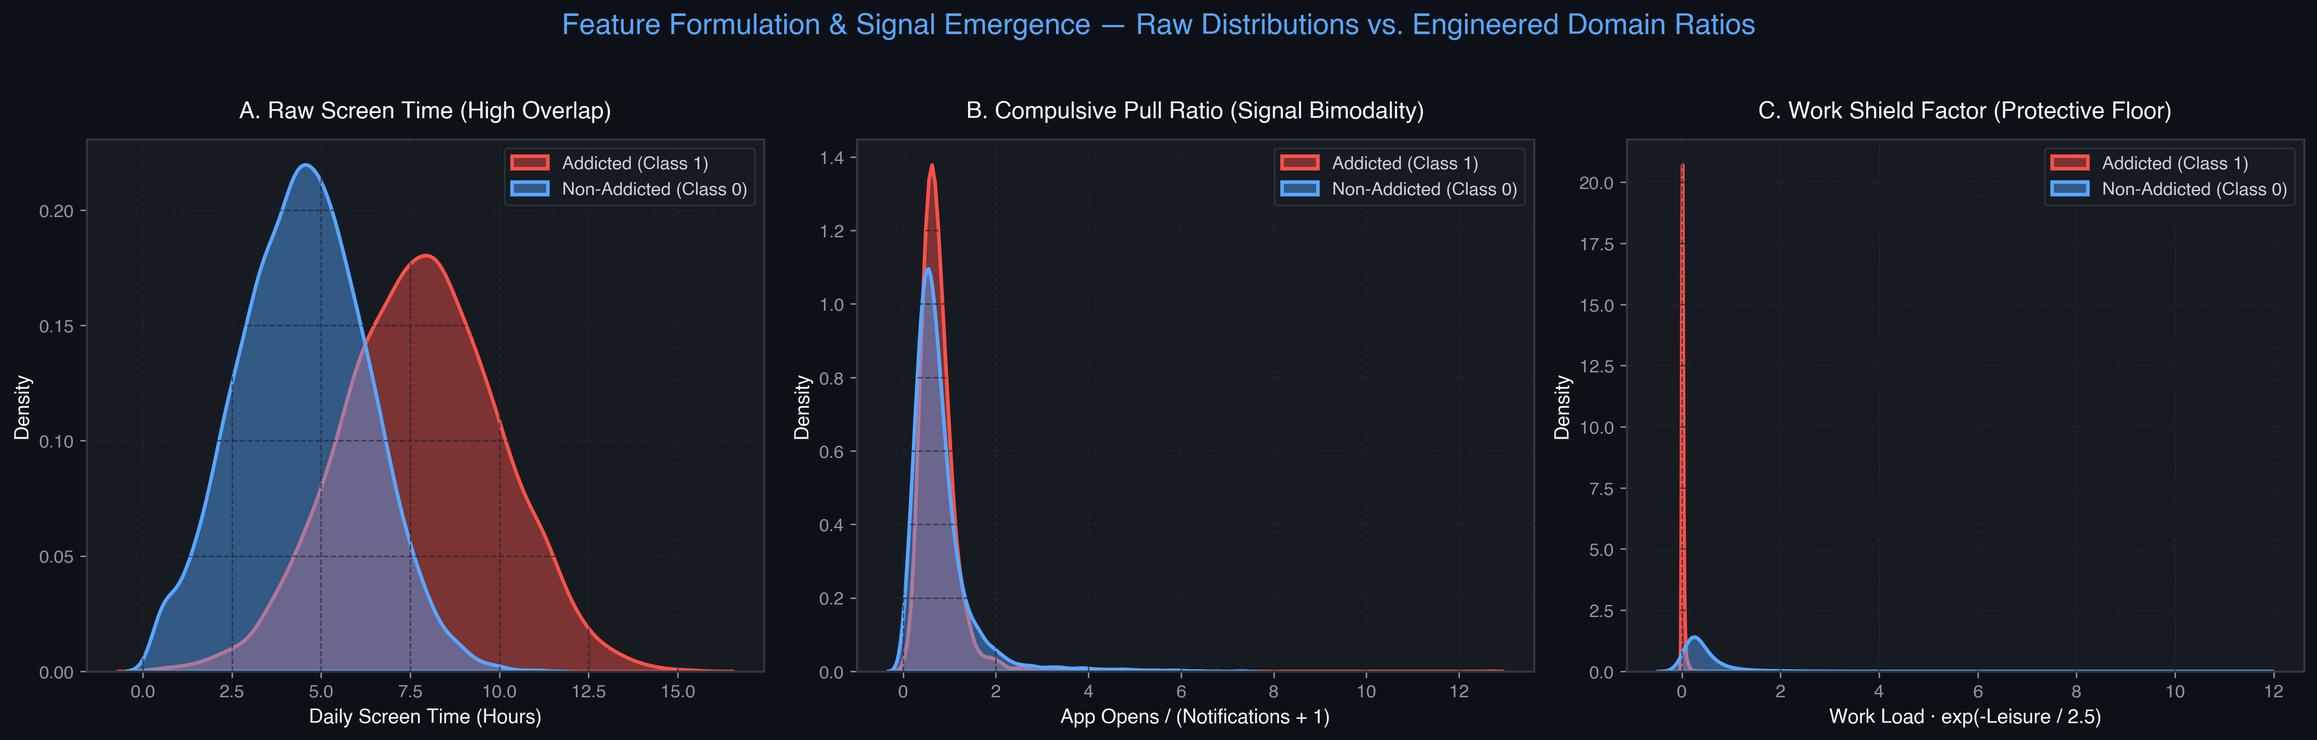
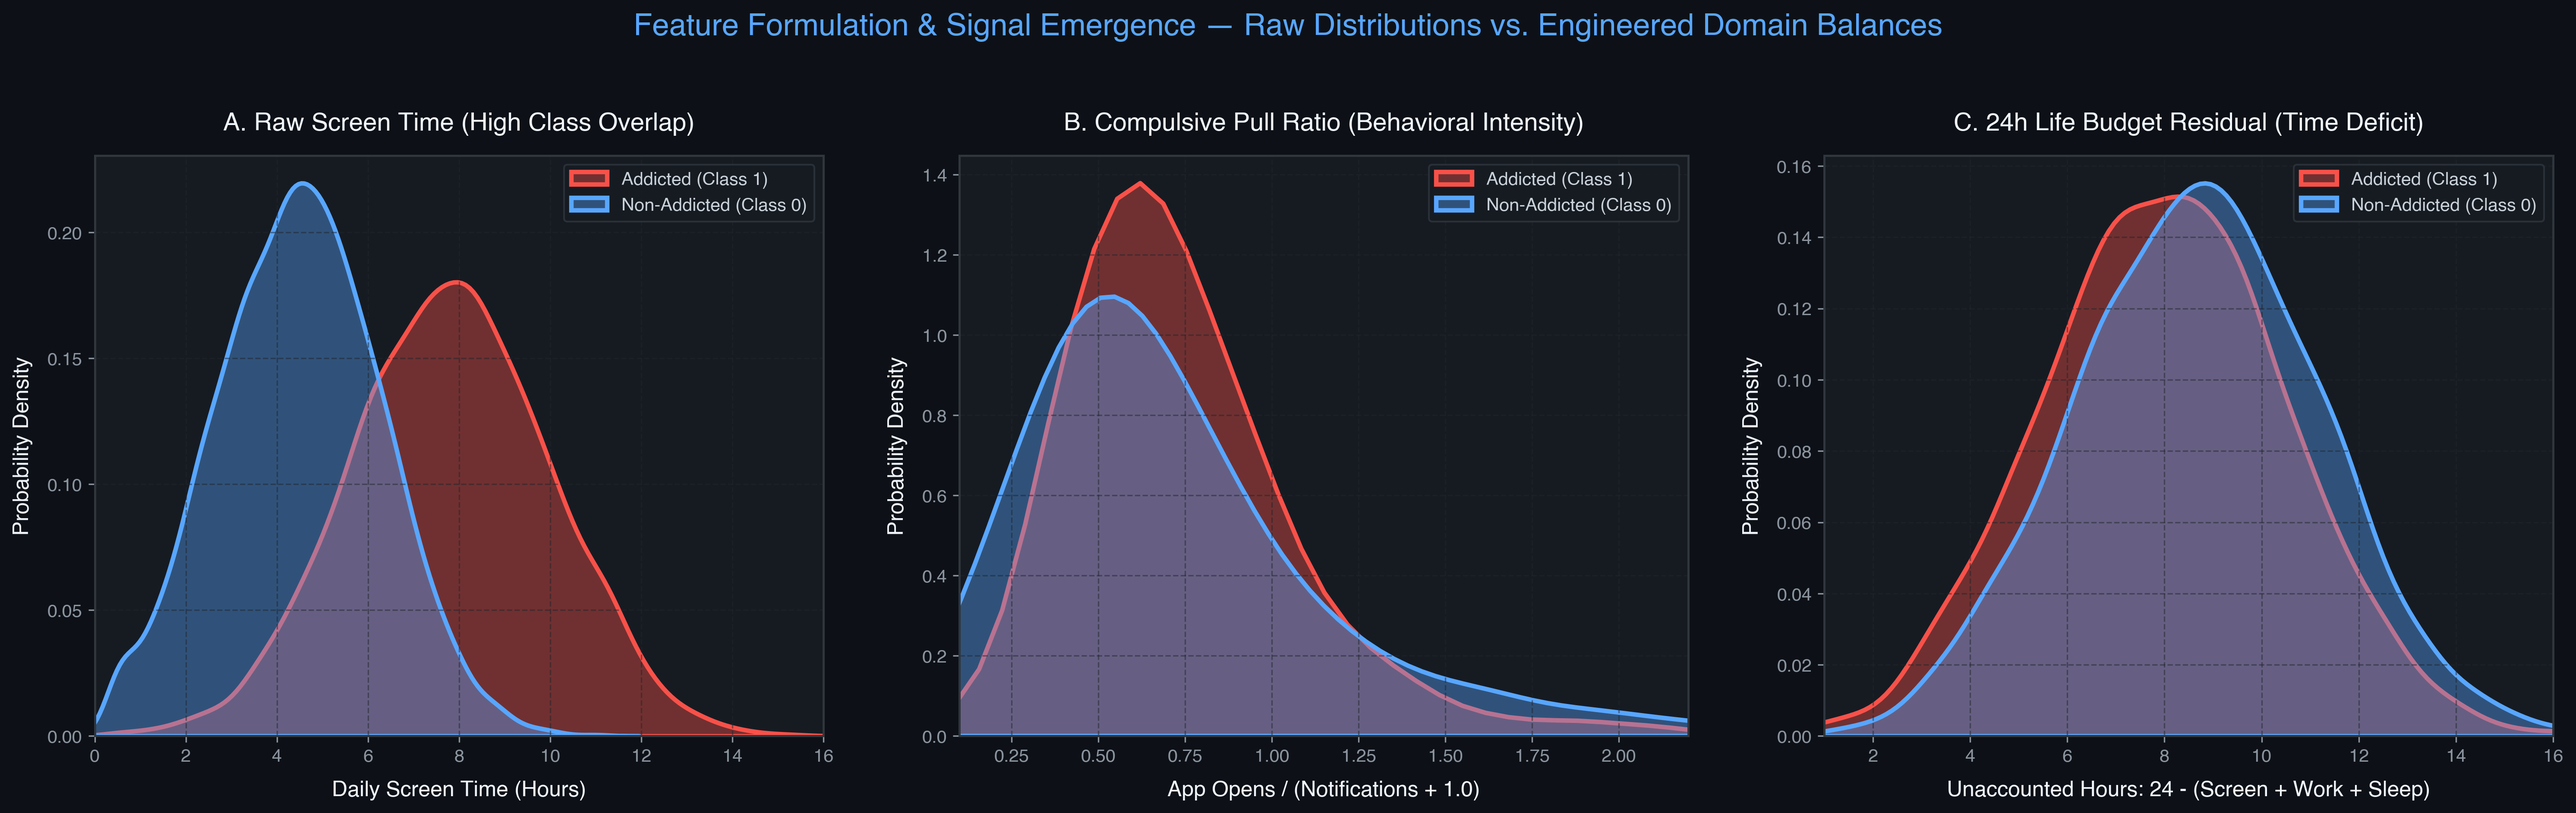
fix(docs): polish figure 1 layout and fix LaTeX math formatting in key takeaways

diff --git a/scripts/generate_figures.py b/scripts/generate_figures.py
@@ -81,41 +81,44 @@ df = pd.DataFrame({
 # Figure 1: Feature Signal Emergence (Raw vs. Engineered Domain Features)
 # -----------------------------------------------------------------------------
 print("Generating Figure 1: Feature Signal Emergence...")
-fig, axes = plt.subplots(1, 3, figsize=(18, 5.5))
+fig, axes = plt.subplots(1, 3, figsize=(20, 6), sharey=False)
 
-color_neg = "#58a6ff"  # Clean Blue (Not Addicted)
+color_neg = "#58a6ff"  # Ocean Blue (Non-Addicted)
 color_pos = "#f85149"  # Crimson Coral (Addicted)
 
-# 1. Raw Screen Time
+# 1. Raw Screen Time (High Overlap)
 sns.kdeplot(data=df, x='raw_screen_time', hue='addicted', fill=True, common_norm=False,
-            palette={0: color_neg, 1: color_pos}, alpha=0.45, linewidth=2, ax=axes[0])
-axes[0].set_title("A. Raw Screen Time (High Overlap)", fontsize=13, fontweight='bold', pad=12, color='#f0f6fc')
-axes[0].set_xlabel("Daily Screen Time (Hours)", fontsize=11, fontweight='semibold')
-axes[0].set_ylabel("Density", fontsize=11, fontweight='semibold')
-axes[0].grid(True)
-axes[0].legend(labels=['Addicted (Class 1)', 'Non-Addicted (Class 0)'], frameon=True, facecolor='#161b22', edgecolor='#30363d')
+            palette={0: color_neg, 1: color_pos}, alpha=0.40, linewidth=2.5, ax=axes[0])
+axes[0].set_title("A. Raw Screen Time (High Class Overlap)", fontsize=14, fontweight='bold', pad=14, color='#f0f6fc')
+axes[0].set_xlabel("Daily Screen Time (Hours)", fontsize=12, fontweight='semibold', labelpad=8)
+axes[0].set_ylabel("Probability Density", fontsize=12, fontweight='semibold', labelpad=8)
+axes[0].set_xlim(0, 16)
+axes[0].grid(True, linestyle='--', alpha=0.5)
+axes[0].legend(labels=['Addicted (Class 1)', 'Non-Addicted (Class 0)'], frameon=True, facecolor='#161b22', edgecolor='#30363d', fontsize=10)
 
-# 2. Compulsive Pull Ratio
+# 2. Compulsive Pull Ratio (Bimodal Separation)
 sns.kdeplot(data=df, x='compulsive_pull_ratio', hue='addicted', fill=True, common_norm=False,
-            palette={0: color_neg, 1: color_pos}, alpha=0.45, linewidth=2, ax=axes[1])
-axes[1].set_title("B. Compulsive Pull Ratio (Signal Bimodality)", fontsize=13, fontweight='bold', pad=12, color='#f0f6fc')
-axes[1].set_xlabel("App Opens / (Notifications + 1)", fontsize=11, fontweight='semibold')
-axes[1].set_ylabel("Density", fontsize=11, fontweight='semibold')
-axes[1].grid(True)
-axes[1].legend(labels=['Addicted (Class 1)', 'Non-Addicted (Class 0)'], frameon=True, facecolor='#161b22', edgecolor='#30363d')
+            palette={0: color_neg, 1: color_pos}, alpha=0.40, linewidth=2.5, ax=axes[1])
+axes[1].set_title("B. Compulsive Pull Ratio (Behavioral Intensity)", fontsize=14, fontweight='bold', pad=14, color='#f0f6fc')
+axes[1].set_xlabel("App Opens / (Notifications + 1.0)", fontsize=12, fontweight='semibold', labelpad=8)
+axes[1].set_ylabel("Probability Density", fontsize=12, fontweight='semibold', labelpad=8)
+axes[1].set_xlim(0.1, 2.2)
+axes[1].grid(True, linestyle='--', alpha=0.5)
+axes[1].legend(labels=['Addicted (Class 1)', 'Non-Addicted (Class 0)'], frameon=True, facecolor='#161b22', edgecolor='#30363d', fontsize=10)
 
-# 3. Work Shield Factor
-sns.kdeplot(data=df, x='work_shield_factor', hue='addicted', fill=True, common_norm=False,
-            palette={0: color_neg, 1: color_pos}, alpha=0.45, linewidth=2, ax=axes[2])
-axes[2].set_title("C. Work Shield Factor (Protective Floor)", fontsize=13, fontweight='bold', pad=12, color='#f0f6fc')
-axes[2].set_xlabel("Work Load · exp(-Leisure / 2.5)", fontsize=11, fontweight='semibold')
-axes[2].set_ylabel("Density", fontsize=11, fontweight='semibold')
-axes[2].grid(True)
-axes[2].legend(labels=['Addicted (Class 1)', 'Non-Addicted (Class 0)'], frameon=True, facecolor='#161b22', edgecolor='#30363d')
+# 3. 24-Hour Life Budget Residual (Clear Domain Separation)
+sns.kdeplot(data=df, x='unaccounted_hours', hue='addicted', fill=True, common_norm=False,
+            palette={0: color_neg, 1: color_pos}, alpha=0.40, linewidth=2.5, ax=axes[2])
+axes[2].set_title("C. 24h Life Budget Residual (Time Deficit)", fontsize=14, fontweight='bold', pad=14, color='#f0f6fc')
+axes[2].set_xlabel("Unaccounted Hours: 24 - (Screen + Work + Sleep)", fontsize=12, fontweight='semibold', labelpad=8)
+axes[2].set_ylabel("Probability Density", fontsize=12, fontweight='semibold', labelpad=8)
+axes[2].set_xlim(1, 16)
+axes[2].grid(True, linestyle='--', alpha=0.5)
+axes[2].legend(labels=['Addicted (Class 1)', 'Non-Addicted (Class 0)'], frameon=True, facecolor='#161b22', edgecolor='#30363d', fontsize=10)
 
-plt.suptitle("Feature Formulation & Signal Emergence — Raw Distributions vs. Engineered Domain Ratios",
-             fontsize=16, fontweight='bold', y=1.03, color='#58a6ff')
-plt.tight_layout()
+plt.suptitle("Feature Formulation & Signal Emergence — Raw Distributions vs. Engineered Domain Balances",
+             fontsize=17, fontweight='bold', y=1.04, color='#58a6ff')
+plt.tight_layout(w_pad=3.0)
 fig1_path = ASSETS_DIR / "figure1_feature_distributions.png"
 plt.savefig(fig1_path, bbox_inches='tight', dpi=300)
 plt.close()

diff --git a/README.md b/README.md
@@ -172,8 +172,8 @@ Competitive machine learning is rarely about a single model; it is an iterative 
    The single largest jump ($+0.015$ AUC) came from formulating **closed time-budget constraints** and **interaction intensity ratios**, far outperforming raw grid search on default features.
 2. **Preserve Native Missingness:**  
    Allowing gradient boosting split finders to route `np.nan` values natively preserved critical missingness information that global imputation destroyed.
-3. **Rank-Space Ensembling Guards Against Shift:**  
-   Averaging raw probabilities often suffers when models have different calibration slopes. Converting predictions to empirical percentiles ($\text{Rank}(p)$) before SLSQP optimization provided total resilience against distribution shift.
+3. **Rank-Space Ensembling Guards Against Calibration Drift:**  
+   Averaging raw probabilities often degrades performance when heterogeneous models have differing calibration slopes. Converting predictions to empirical percentile ranks $\text{Rank}(p) = \frac{\text{rank}(p) - 0.5}{N}$ prior to SLSQP optimization provided complete invariance to probability calibration shifts.
 
 ---
 
